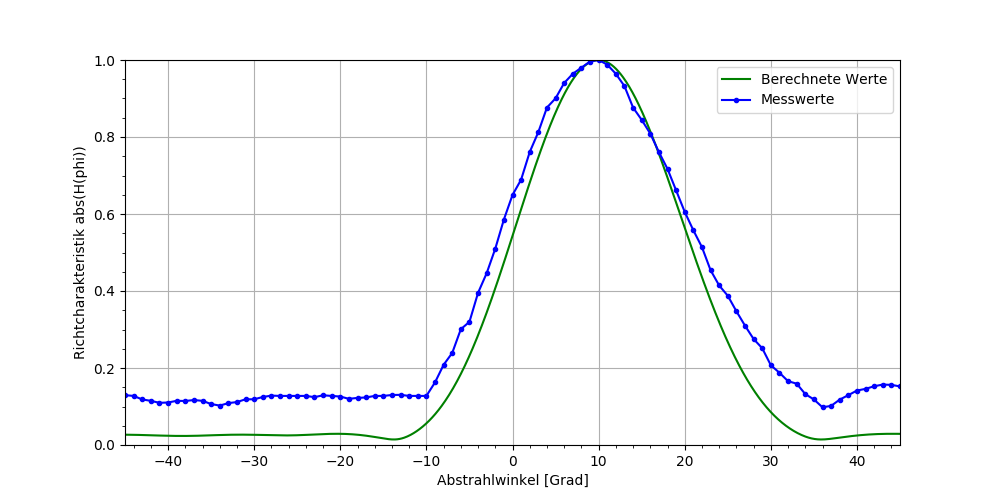
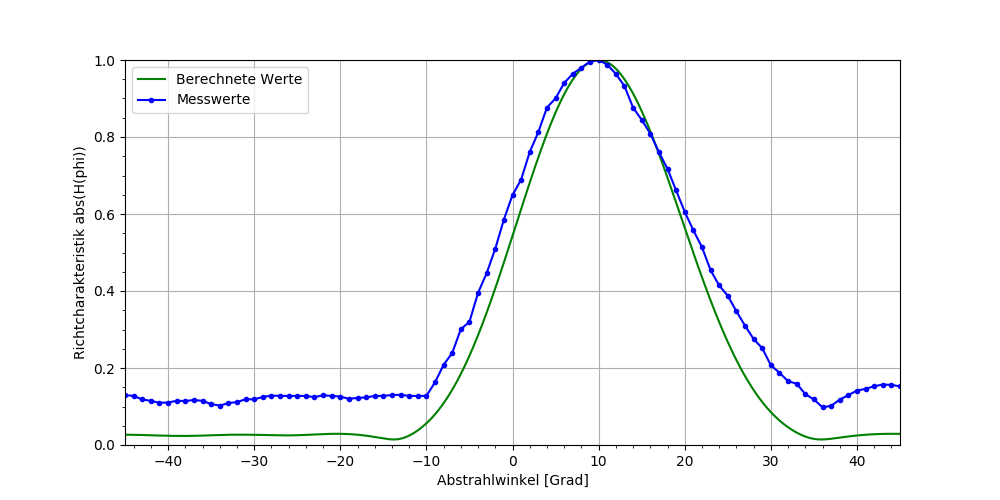
added new plots.

Changed region(s): [[0.713, 0.15, 0.899, 0.21], [0.124, 0.15, 0.31, 0.21]]

diff --git a/software/server_flask/templates/about.html b/software/server_flask/templates/about.html
@@ -24,9 +24,6 @@
 			</h1>
 		</header>
 		<main>
-			<div class="indent">
-				<a href="{{url_for('static', filename='fachbericht.pdf')}}">Technische Dokumentation</a>
-			</div>
 			<!--<div class="indent">
 				<h3>
 					Projektidee
@@ -37,7 +34,7 @@
 			</div>
 			<div class="indent">
 				<h3>
-					Umsetung
+					Umsetzung
 				</h3>
 				<p>
 
@@ -50,20 +47,17 @@
 				<p>
 
 				</p>
-			</div>
+			</div>-->
 			<div class="indent">
-				<h3>
-					Projektteam
-				</h3>
 				<p>
-
+					<a href="{{url_for('static', filename='fachbericht.pdf')}}">Technische Dokumentation</a>
 				</p>
 			</div>
 			<div class="indent">
 				<p>
 					<a href={{url_for('index')}}>Back</a>
 				</p>
-			</div>-->
+			</div>
 		</main>
 		<footer>
 			<p>

diff --git a/documentation/fachbericht/09_images_creator.py b/documentation/fachbericht/09_images_creator.py
@@ -409,10 +409,34 @@ for i in range(NUM_MEASUREMENTS):
 	plt.ylabel('Richtcharakteristik abs(H(phi))')
 	plt.minorticks_on()
 	plt.grid()
-	plt.legend(loc='upper right')
+	plt.legend(loc='upper left')
 
 	#plt.show()
 	fig.savefig('graphics/plot_test_characteristic_rect_' + str(abs(int(phi_0[i]))) + '_cartesian.png')
+	plt.close()
+
+	########################################################################
+	fig = plt.figure(figsize=(10,5))
+
+	phi_meas = arr[0]
+	H_meas = arr[i+1] / max(arr[1])
+
+	H = calc_characteristics(d, lamb, phi_0[i]/180.0*pi, phi/180.0*pi, N, aperture)
+	plt.plot(phi, 20*log10(H), marker='', color='green', label='Berechnete Werte')
+
+	plt.plot(phi_meas, 20*log10(H_meas), marker='.', color='blue', label='Messwerte')
+
+	plt.xlim(min(phi), max(phi))
+	plt.ylim(-30, 0.0)
+
+	plt.xlabel('Abstrahlwinkel [Grad]')
+	plt.ylabel('Richtcharakteristik abs(H(phi)) [dB]')
+	plt.minorticks_on()
+	plt.grid()
+	plt.legend(loc='upper left')
+
+	#plt.show()
+	fig.savefig('graphics/plot_test_characteristic_rect_' + str(abs(int(phi_0[i]))) + '_cartesian_log.png')
 	plt.close()
 
 
@@ -476,8 +500,32 @@ for i in range(NUM_MEASUREMENTS):
 	plt.ylabel('Richtcharakteristik abs(H(phi))')
 	plt.minorticks_on()
 	plt.grid()
-	plt.legend(loc='upper right')
+	plt.legend(loc='upper left')
 
 	#plt.show()
 	fig.savefig('graphics/plot_test_characteristic_aperture_' + str(abs(int(aperture[i]))) + '_cartesian.png')
+	plt.close()
+
+	########################################################################
+	fig = plt.figure(figsize=(10,5))
+
+	phi_meas = arr[0]
+	H_meas = arr[i+1] / max(arr[i+1])
+
+	H = calc_characteristics(d, lamb, phi_0/180.0*pi, phi/180.0*pi, N, aperture[i])
+	plt.plot(phi, 20*log10(H), marker='', color='green', label='Berechnete Werte')
+
+	plt.plot(phi_meas, 20*log10(H_meas), marker='.', color='blue', label='Messwerte')
+
+	plt.xlim(min(phi), max(phi))
+	plt.ylim(-40, 0.0)
+
+	plt.xlabel('Abstrahlwinkel [Grad]')
+	plt.ylabel('Richtcharakteristik abs(H(phi)) [dB]')
+	plt.minorticks_on()
+	plt.grid()
+	plt.legend(loc='upper left')
+
+	#plt.show()
+	fig.savefig('graphics/plot_test_characteristic_aperture_' + str(abs(int(aperture[i]))) + '_cartesian_log.png')
 	plt.close()
